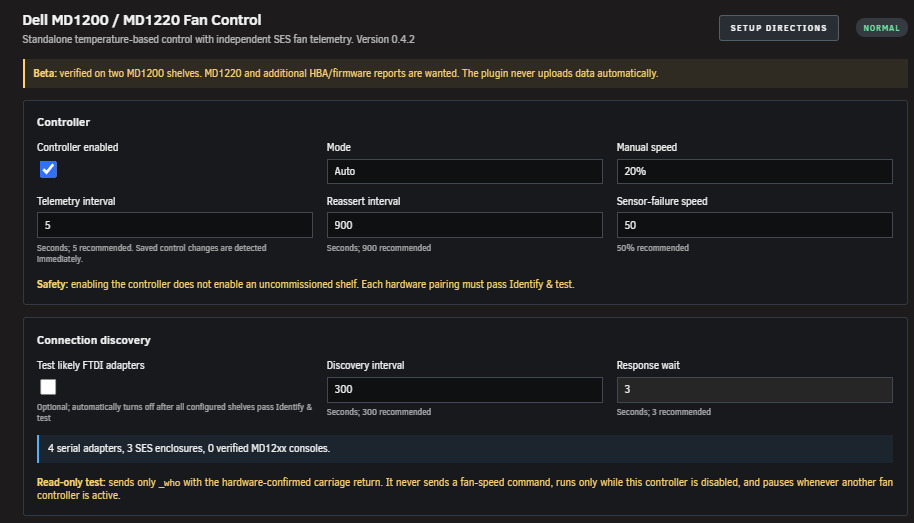
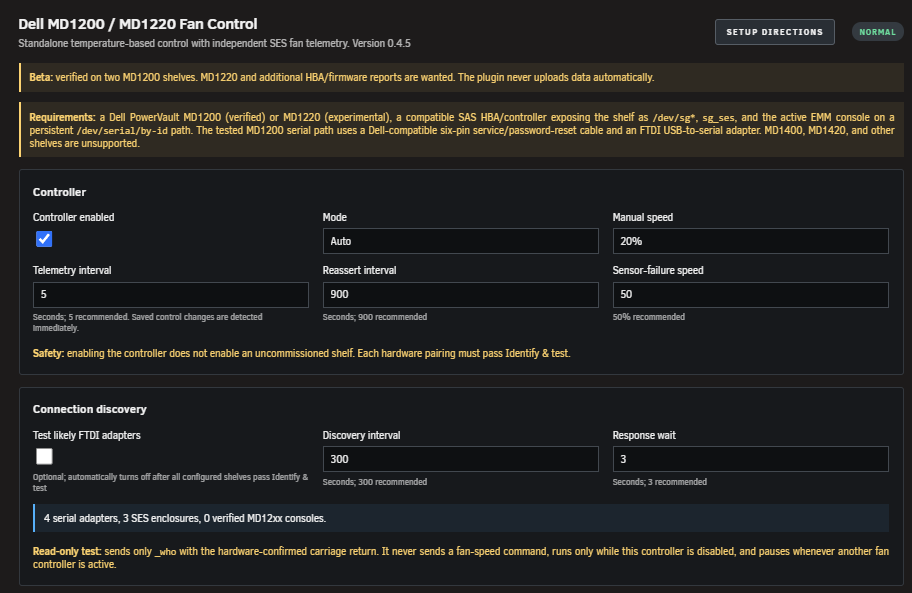
Refresh final Community Apps screenshots

diff --git a/RELEASE_CHECKLIST.md b/RELEASE_CHECKLIST.md
@@ -29,4 +29,4 @@
 - [ ] At least one MD1220 hardware report.
 - [ ] Public Unraid forum support thread exists and replaces the temporary GitHub-only support link where appropriate.
 - [x] Community Apps Validate and Scan both pass with one reachable plugin manifest, no hard errors, and no template warnings.
-- [ ] Listing screenshots are captured from the final Settings page.
+- [x] Listing screenshots are captured from the final Settings page.
